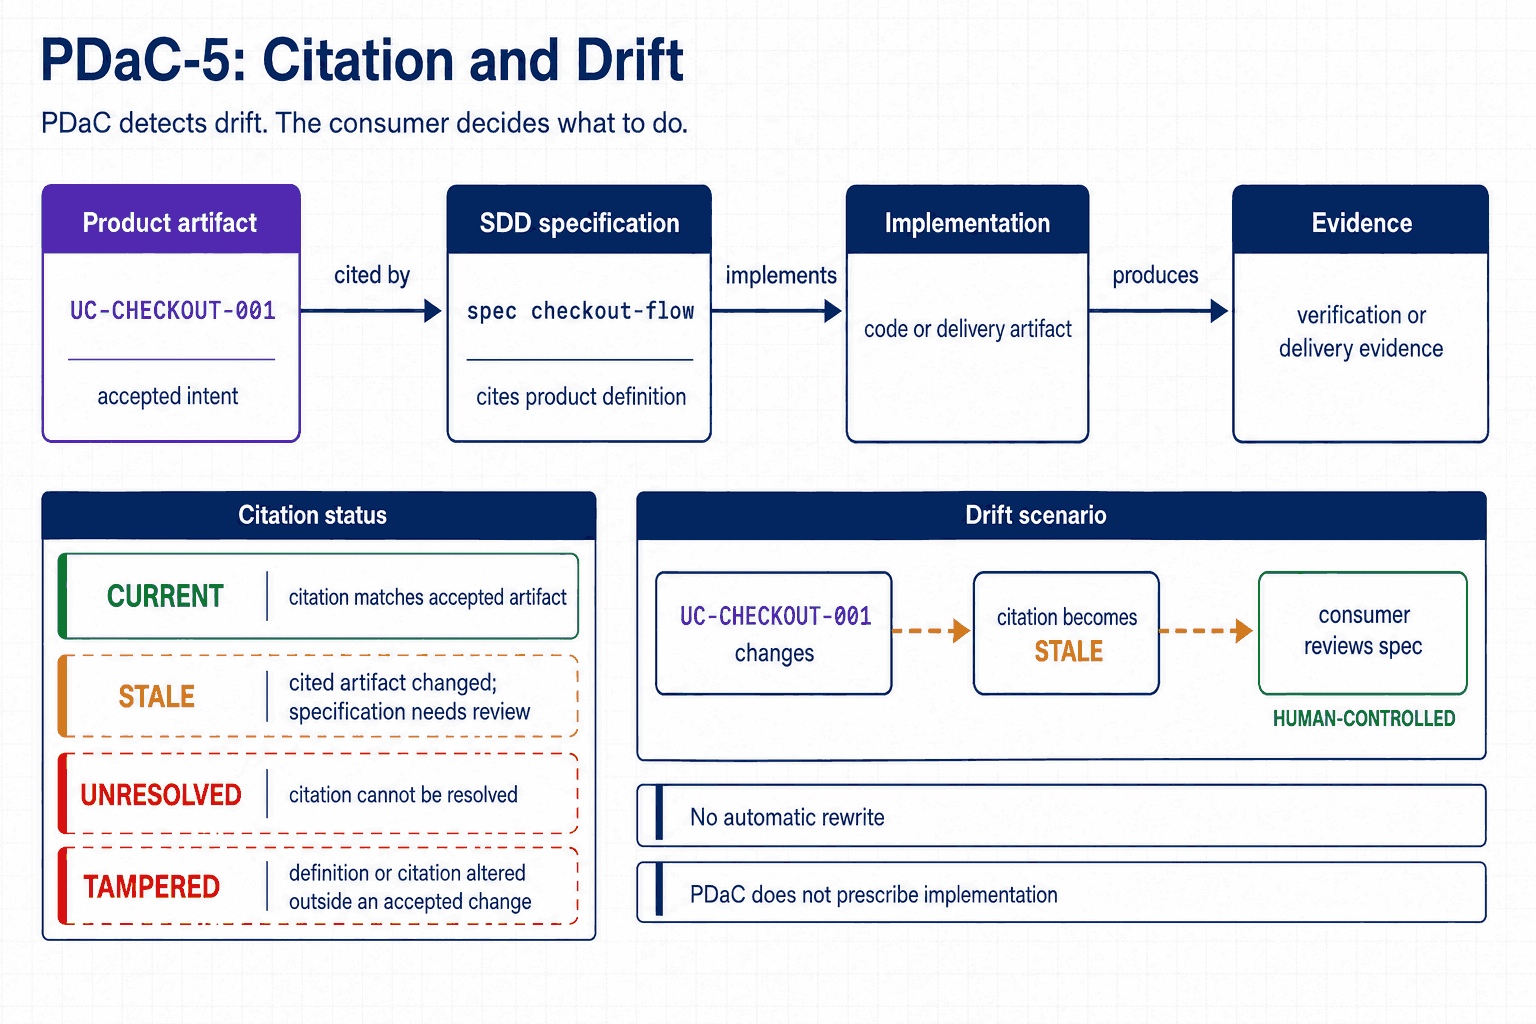
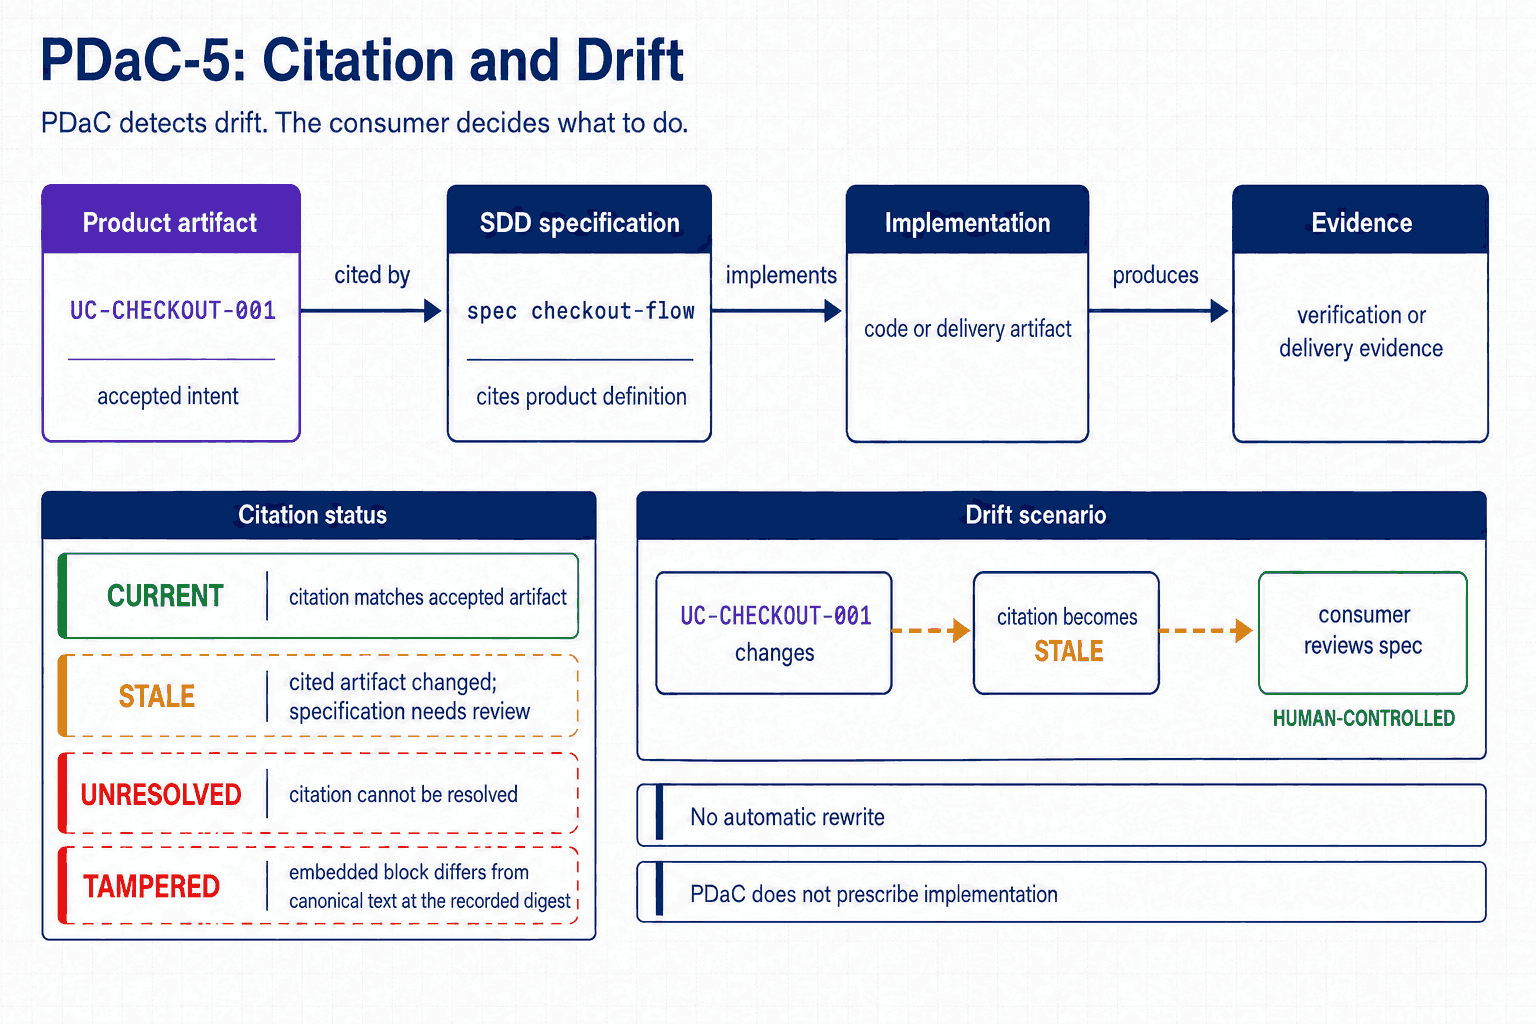
docs: correct PDaC-5's tampered description
The diagram glossed tampered as "definition or citation altered outside
an accepted change", which is broader than the specification and overlaps
the branch-protection gap named in known limits. The status is narrower:
only for embedded projections, where the block differs from canonical
content at the recorded digest.

The figure now says so, so its caption no longer has to send the reader
past it to the table.

diff --git a/spec/citation-contract.md b/spec/citation-contract.md
@@ -6,7 +6,7 @@ The citation contract is the delivery boundary of Product Definition as Code. Co
 
 ![The citation chain and what happens when it drifts. A product artifact, UC-CHECKOUT-001, carrying accepted intent, is cited by an SDD specification, spec checkout-flow, which is implemented by code or another delivery artifact, which produces verification or delivery evidence. A panel lists citation statuses: current, where the citation matches the accepted artifact; stale, where the cited artifact changed and the specification needs review; and unresolved, where the citation cannot be resolved. A drift scenario shows UC-CHECKOUT-001 changing, the citation becoming stale, and a consumer reviewing the specification, marked human-controlled, with two rules stated: no automatic rewrite, and PDaC does not prescribe implementation.](../assets/diagrams/pdac-5-citation-and-drift.png)
 
-_Figure PDaC-5 — how does PDaC connect to a consumer without replacing it? Non-normative; the status table below is authoritative, in particular for `tampered`, which applies only to embedded projections._
+_Figure PDaC-5 — how does PDaC connect to a consumer without replacing it? Non-normative; this chapter is authoritative._
 
 ## Citation record
 
